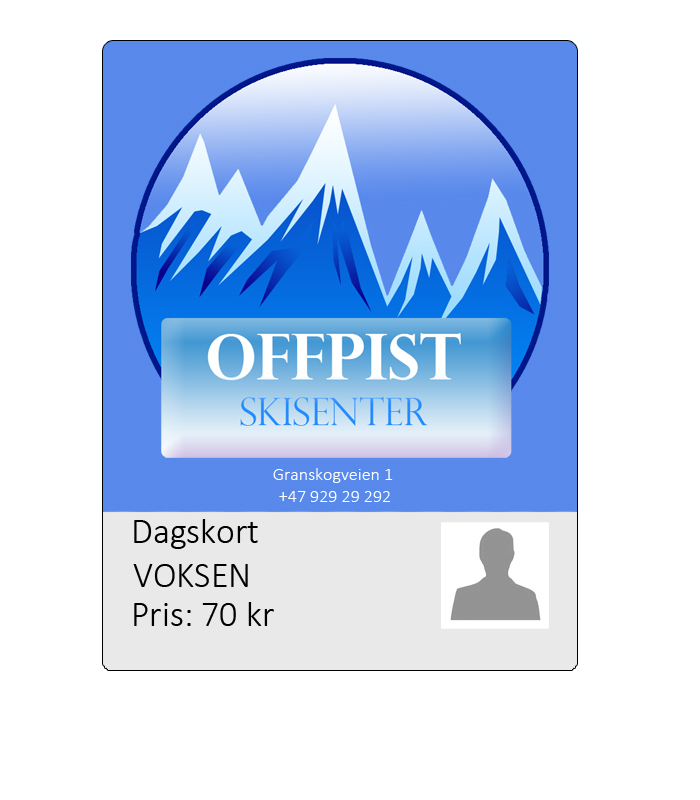
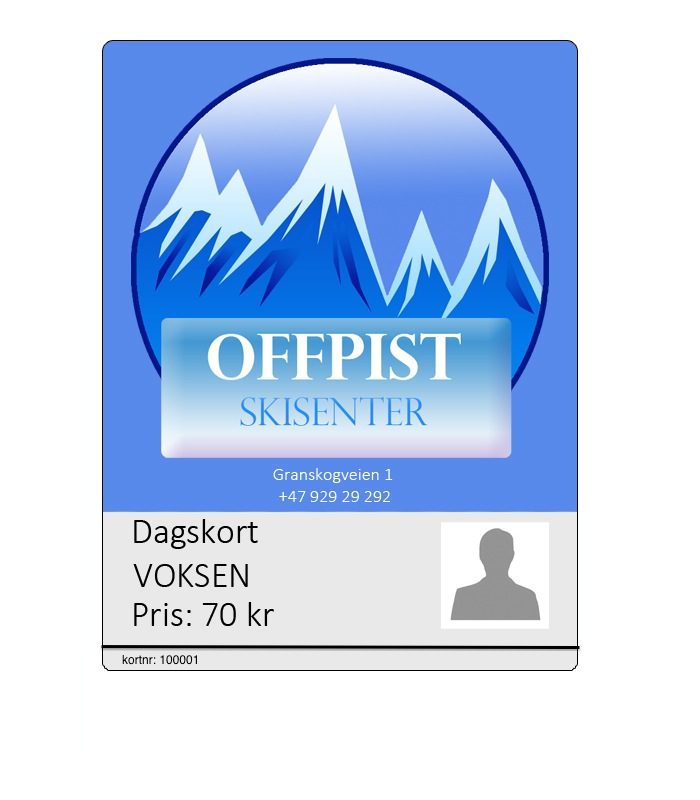
.

diff --git a/CardPainting.java b/CardPainting.java
@@ -19,6 +19,7 @@ public class CardPainting extends JPanel
 	private int currentY = YSTART;
 	private int size;  
 
+
 	public CardPainting( )
 	{
 		setBackground( Color.WHITE );
@@ -43,10 +44,21 @@ public class CardPainting extends JPanel
 
 		
 
-		g2d.drawRect(9, 9, 476, 640);
+//		g2d.drawRect(9, 9, 476, 640);
+
+
 
 		g2d.setColor( new Color( 89, 137, 235 ) );
-		g2d.fillRect(10, 10, 475, 470);
+		g2d.fillRoundRect(10, 10, 475, 50, 15, 15);
+		g2d.fillRect(10,30,475,440);
+
+		g2d.setColor( new Color(233,233,233) );
+		g2d.fillRect(10,470,475,150);
+		g2d.fillRoundRect( 10,610, 475, 40, 15, 15);
+
+		g2d.setColor( Color.BLACK );
+		g2d.drawRoundRect(10,10,475,640, 15,15); 
+		
 		g2d.drawImage( img, (WIDTH/2 - size/2), 20, null );
 
 		
